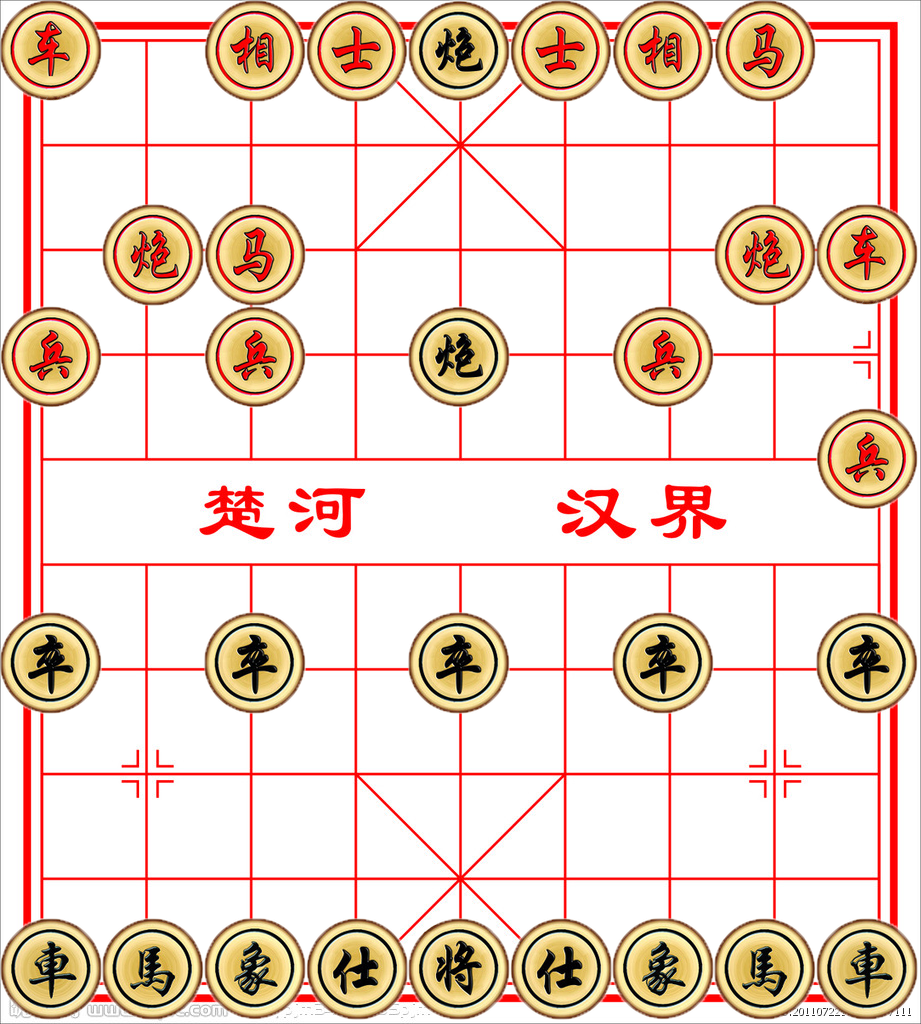
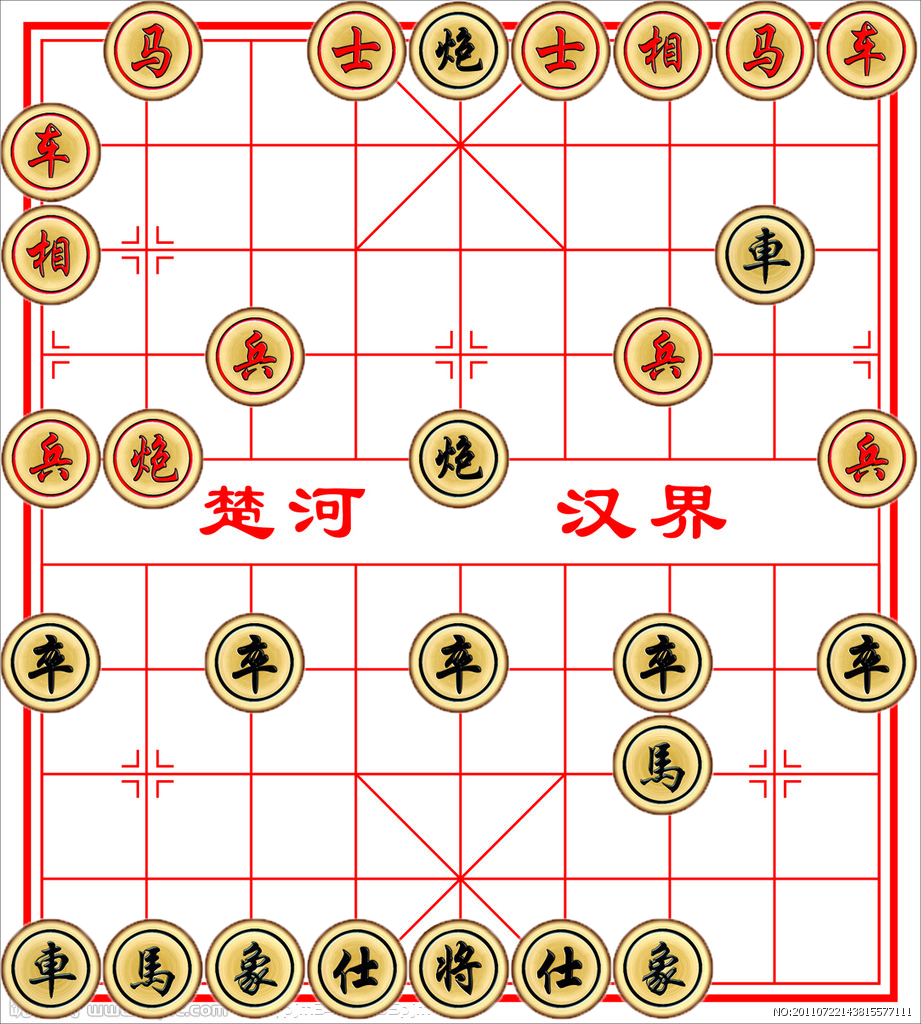
change stuffs

diff --git a/pieces.py b/pieces.py
@@ -127,8 +127,8 @@ class BlackGeneral(Piece):
     def _filter(state, x, y, nx, ny):
         return 7 <= nx <= 9 and 3 <= ny <= 5
 
-    @staticmethod
-    @filter_legal_moves("黑", customize_filter=_filter)
+
+    @filter_legal_moves("黑", customize_filter=lambda state, x, y, nx, ny: 7 <= nx <= 9 and 3 <= ny <= 5)
     def get_next_legal_move(state, x, y):
         return [(x - 1, y), (x + 1, y), (x, y - 1), (x, y + 1)]
 
@@ -140,7 +140,6 @@ class RedGeneral(Piece):
     def _filter(state, x, y, nx, ny):
         return 0 <= nx <= 2 and 3 <= ny <= 5
 
-    @staticmethod
-    @filter_legal_moves("红", customize_filter=_filter)
+    @filter_legal_moves("红", customize_filter=lambda state, x, y, nx, ny: 0 <= nx <= 2 and 3 <= ny <= 5)
     def get_next_legal_move(state, x, y):
         return [(x - 1, y), (x + 1, y), (x, y - 1), (x, y + 1)]

diff --git a/state.py b/state.py
@@ -69,6 +69,7 @@ class StateMachine:
                 if name == "一一" or not name.startswith(color):
                     continue
                 piece_cls = Piece.get_name_to_cls_mapping().get(name)
+                print(piece_cls)
                 if piece_cls and piece_cls._is(state.state, x, y):
                     for nx, ny in piece_cls.get_next_legal_move(state.state, x, y):
                         key = (x, y, nx, ny)
